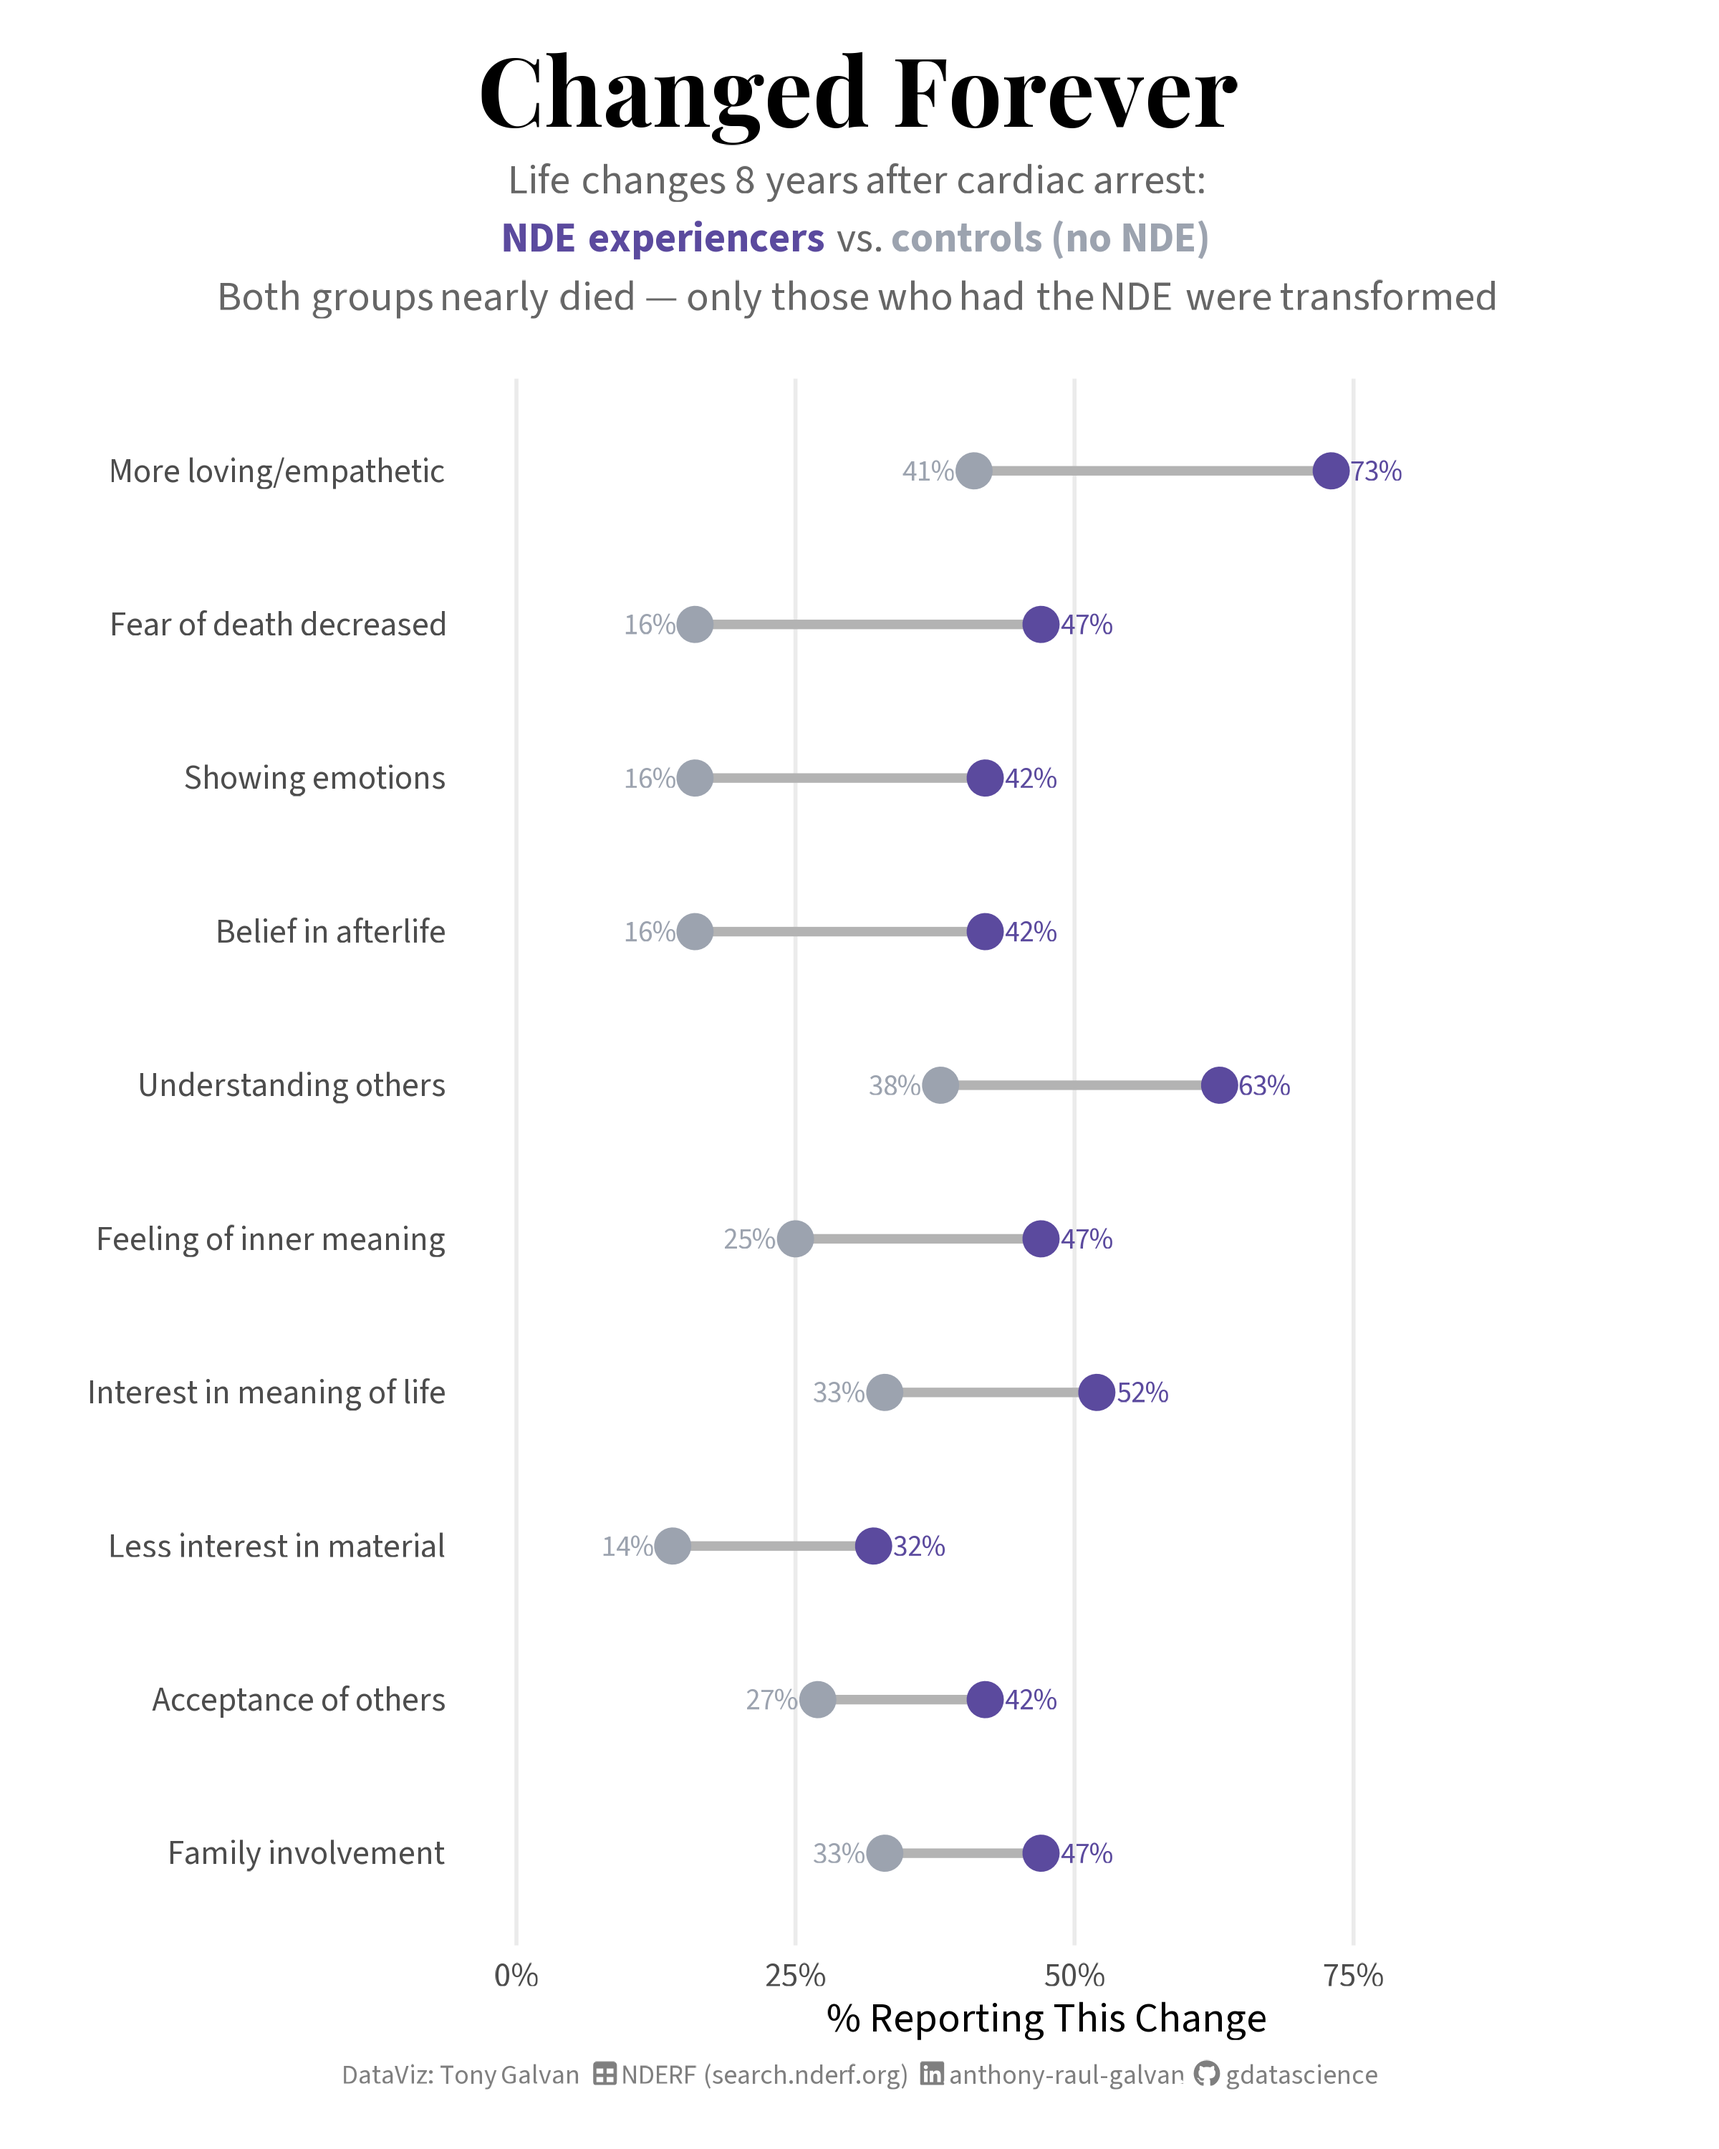
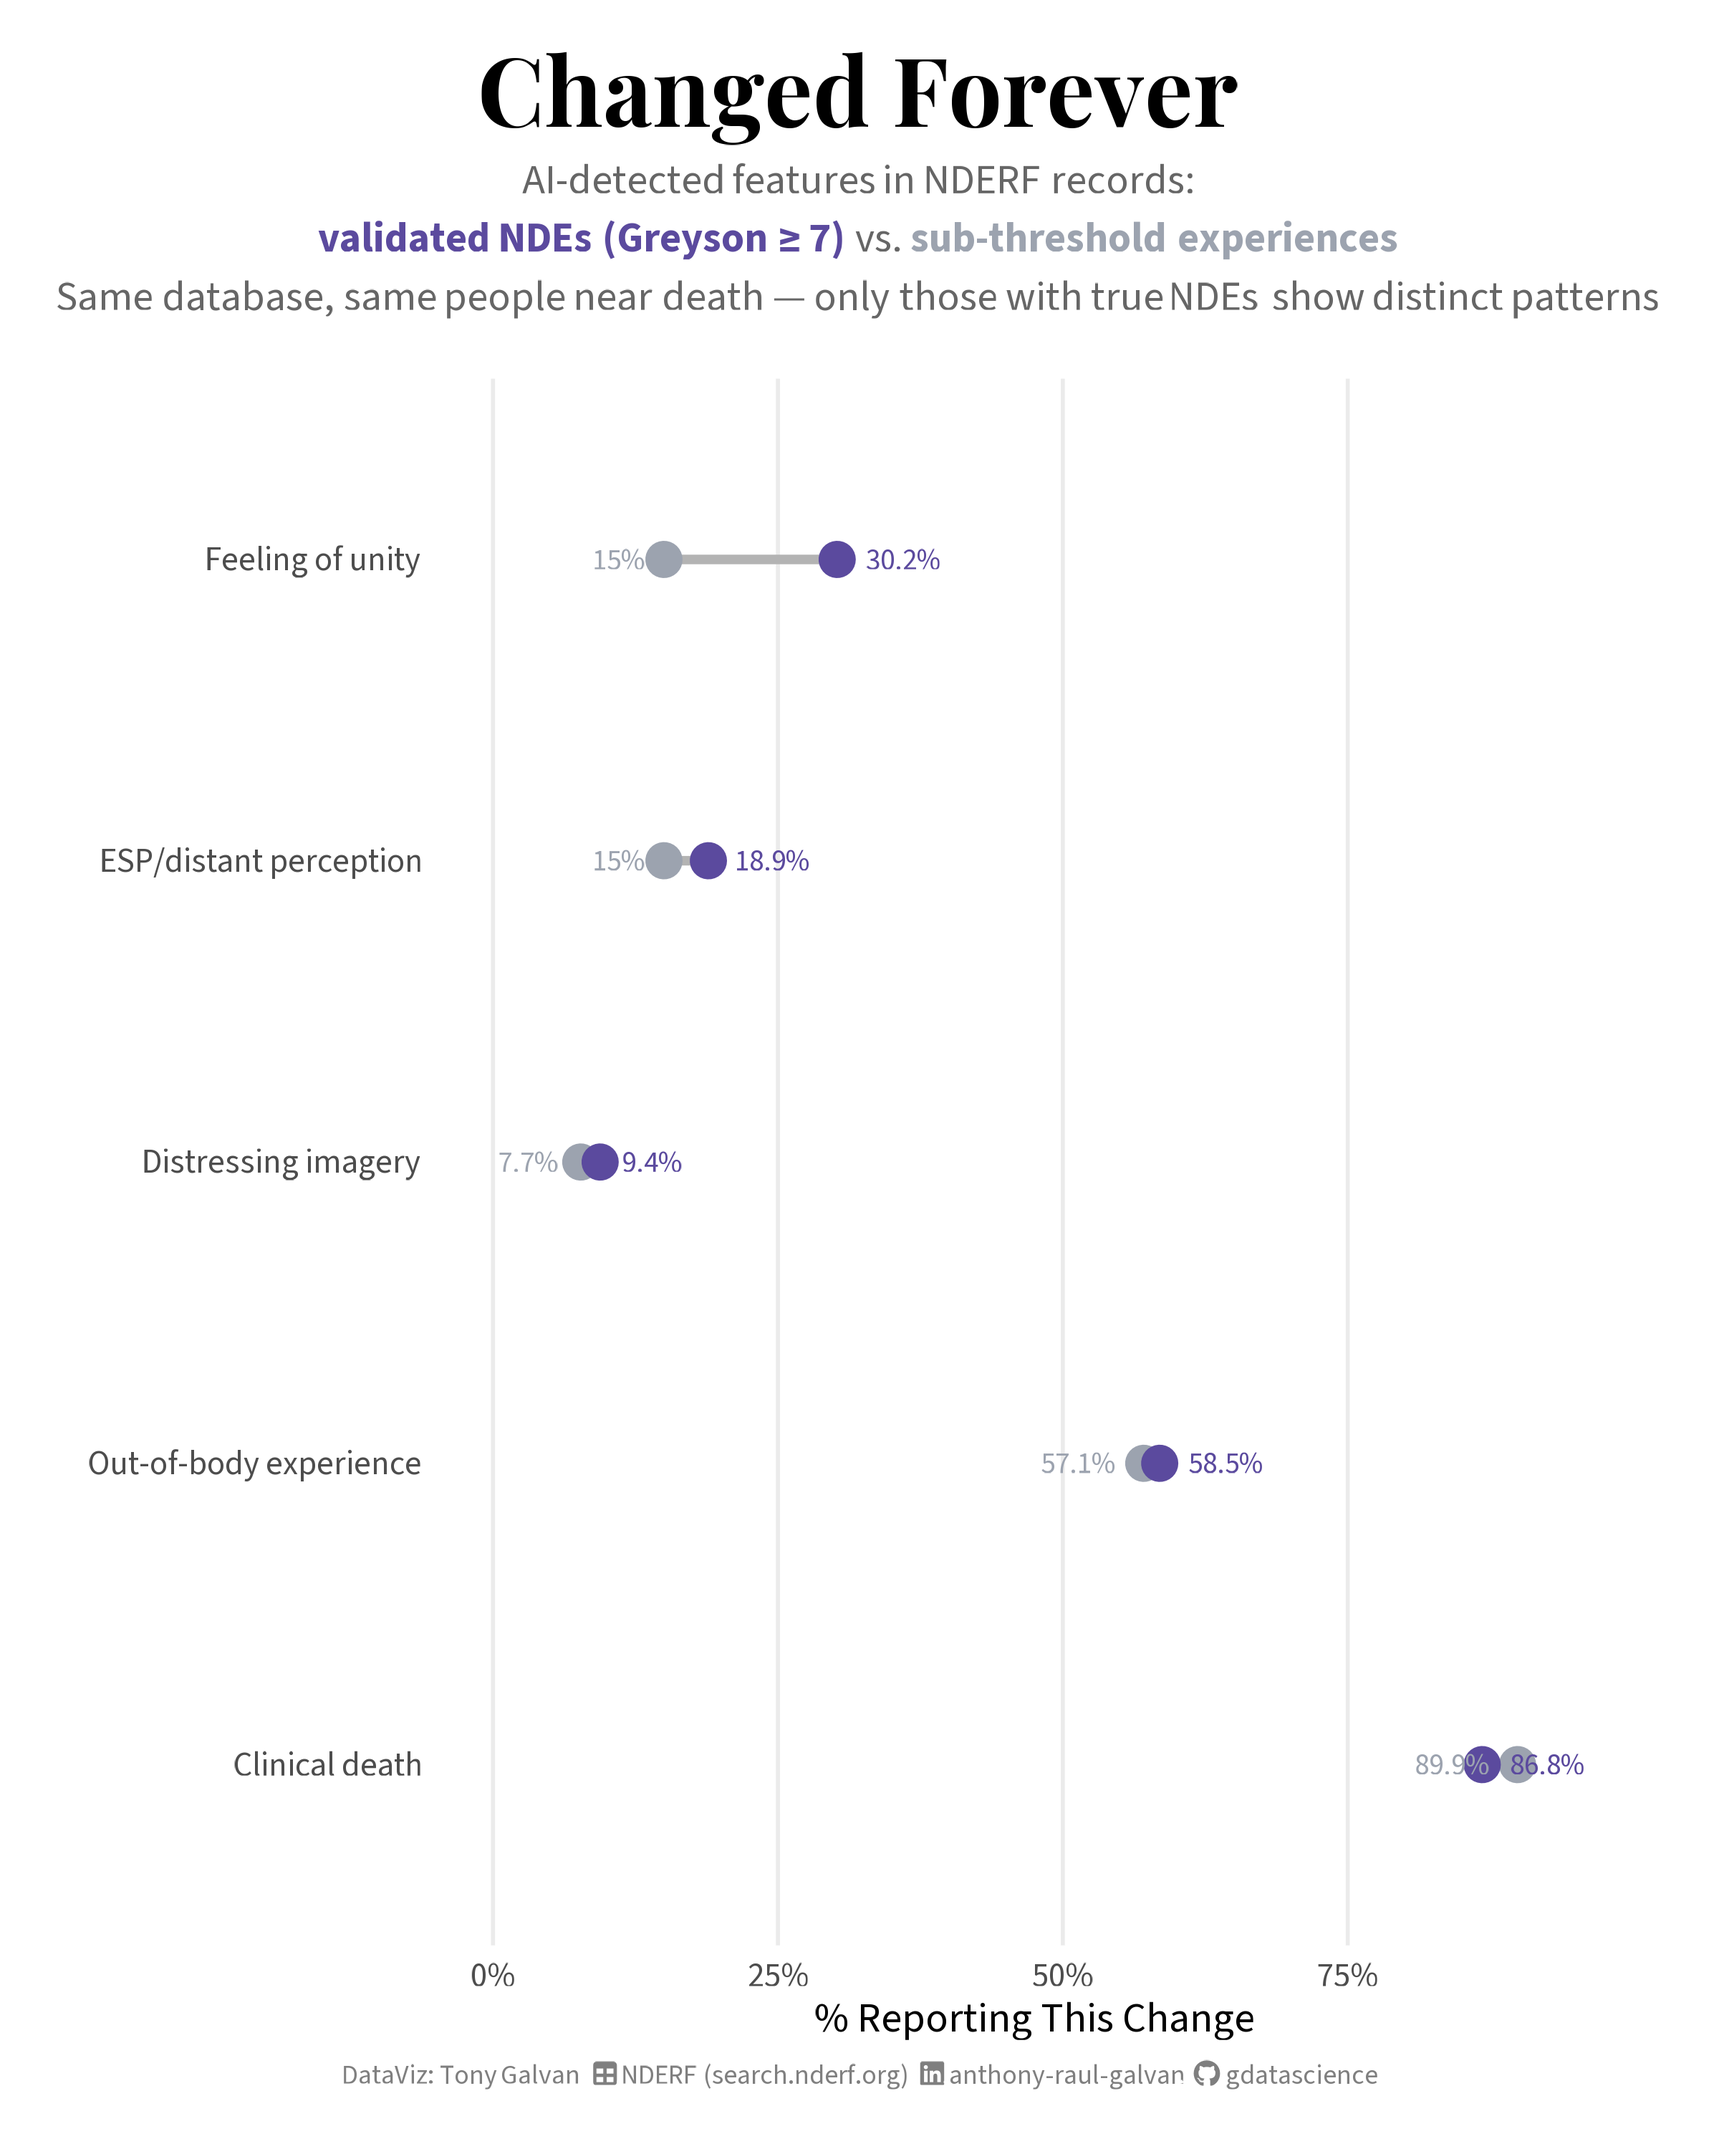
Replace hardcoded tribble in hero viz with scraped NDERF data

diff --git a/other/near_death_experiences/README.md b/other/near_death_experiences/README.md
@@ -2,7 +2,7 @@
 
 **[Source Code](near_death_experiences.Rmd)** | Data scraped from [NDERF Search](https://search.nderf.org/)
 
-![Life changes 8 years after cardiac arrest: NDE experiencers vs. controls](outputs/near_death_experiences.png)
+![Changed Forever: NDE vs sub-threshold features from NDERF data](outputs/near_death_experiences.png)
 
 589 individual NDE records scraped from NDERF reveal that 57% involve out-of-body experiences, 89% occur during confirmed clinical death, and only 8% are distressing. The dataset spans 20+ countries and 25 years of submissions — a unique window into thousands of people's encounters with death.
 
@@ -816,19 +816,23 @@ tt_caption <- paste0(
   "gdatascience"
 )
 
-life_changes_data <- tribble(
-  ~feature, ~nde_pct, ~control_pct,
-  "More loving/empathetic", 73, 41,
-  "Understanding others", 63, 38,
-  "Interest in meaning of life", 52, 33,
-  "Fear of death decreased", 47, 16,
-  "Feeling of inner meaning", 47, 25,
-  "Family involvement", 47, 33,
-  "Belief in afterlife", 42, 16,
-  "Acceptance of others", 42, 27,
-  "Showing emotions", 42, 16,
-  "Less interest in material", 32, 14
-) |>
+# Hero viz: Dumbbell chart comparing NDE (Greyson ≥ 7) vs sub-threshold features
+# Uses the scraped NDERF data — no hardcoded values
+life_changes_data <- nde_experiences |>
+  filter(!is.na(greyson_score)) |>
+  mutate(nde_group = if_else(greyson_score >= 7, "nde", "control")) |>
+  group_by(nde_group) |>
+  summarize(
+    `Out-of-body experience` = round(100 * mean(ai_obe, na.rm = TRUE), 1),
+    `Feeling of unity` = round(100 * mean(ai_unity, na.rm = TRUE), 1),
+    `Distressing imagery` = round(100 * mean(ai_hellish, na.rm = TRUE), 1),
+    `ESP/distant perception` = round(100 * mean(ai_esp, na.rm = TRUE), 1),
+    `Clinical death` = round(100 * mean(ai_clinical, na.rm = TRUE), 1),
+    .groups = "drop"
+  ) |>
+  pivot_longer(cols = -nde_group, names_to = "feature", values_to = "value") |>
+  pivot_wider(names_from = nde_group, values_from = value) |>
+  rename(nde_pct = nde, control_pct = control) |>
   mutate(
     gap = nde_pct - control_pct,
     feature = fct_reorder(feature, gap)
@@ -849,7 +853,7 @@ p_c <- ggplot(life_changes_data) +
   scale_x_continuous(limits = c(0, 95), labels = percent_format(scale = 1)) +
   labs(
     title = "Changed Forever",
-    subtitle = "Life changes 8 years after cardiac arrest:<br><span style='color:#5B4A9E;'>**NDE experiencers**</span> vs. <span style='color:#9CA3AF;'>**controls (no NDE)**</span><br>Both groups nearly died — only those who had the NDE were transformed",
+    subtitle = "AI-detected features in NDERF records:<br><span style='color:#5B4A9E;'>**validated NDEs (Greyson ≥ 7)**</span> vs. <span style='color:#9CA3AF;'>**sub-threshold experiences**</span><br>Same database, same people near death — only those with true NDEs show distinct patterns",
     x = "% Reporting This Change",
     y = NULL,
     caption = tt_caption
